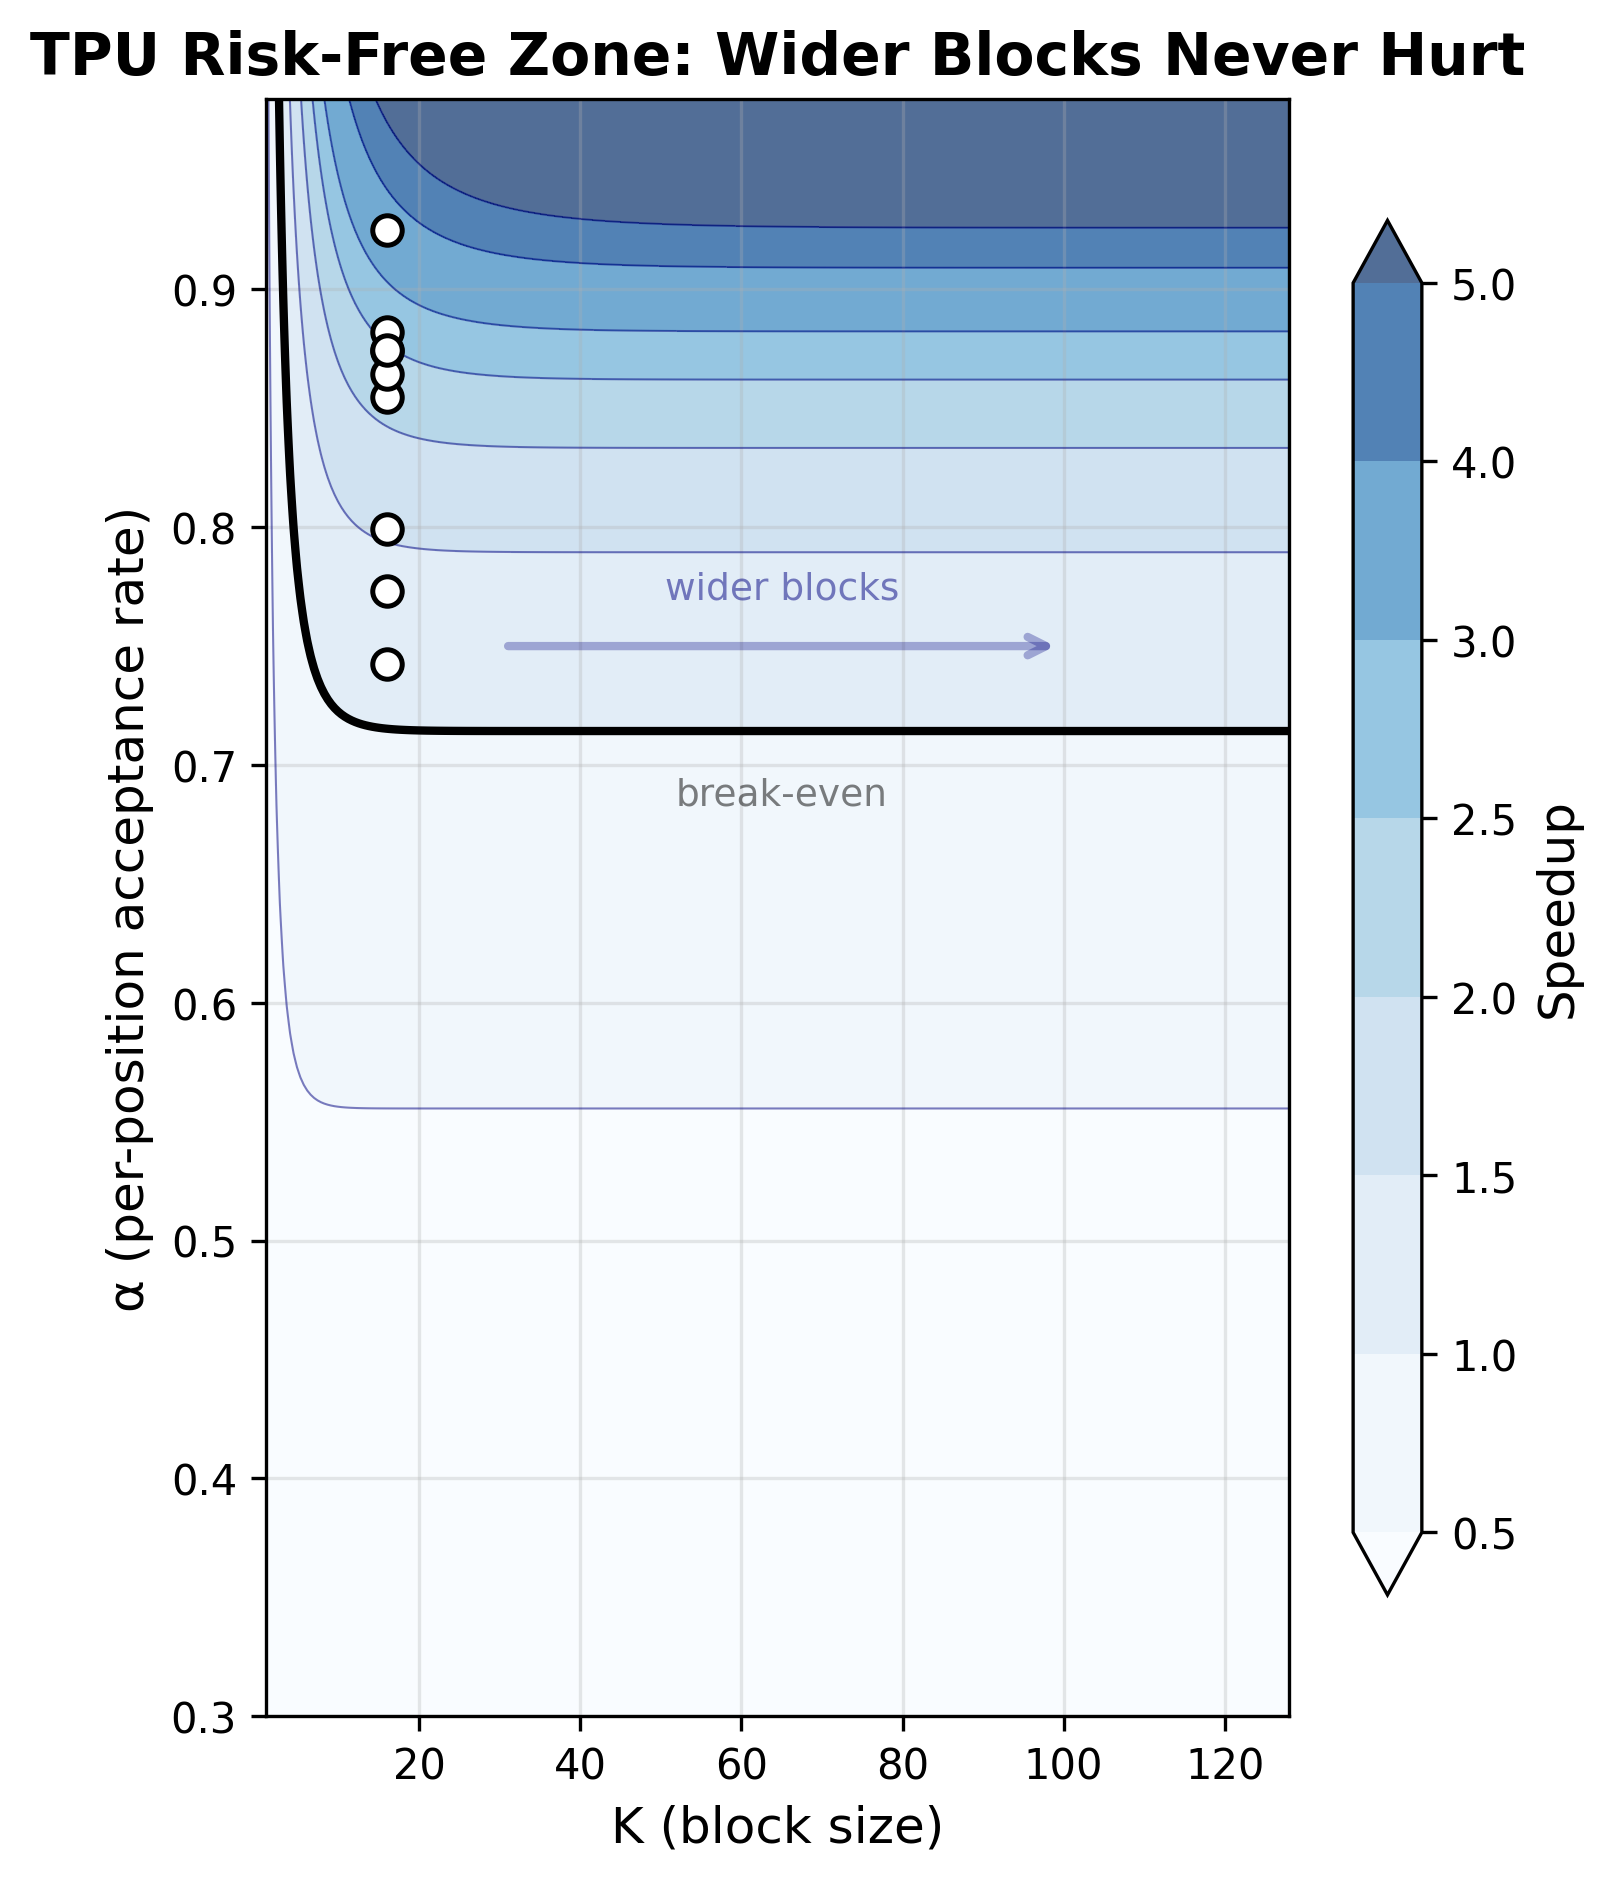
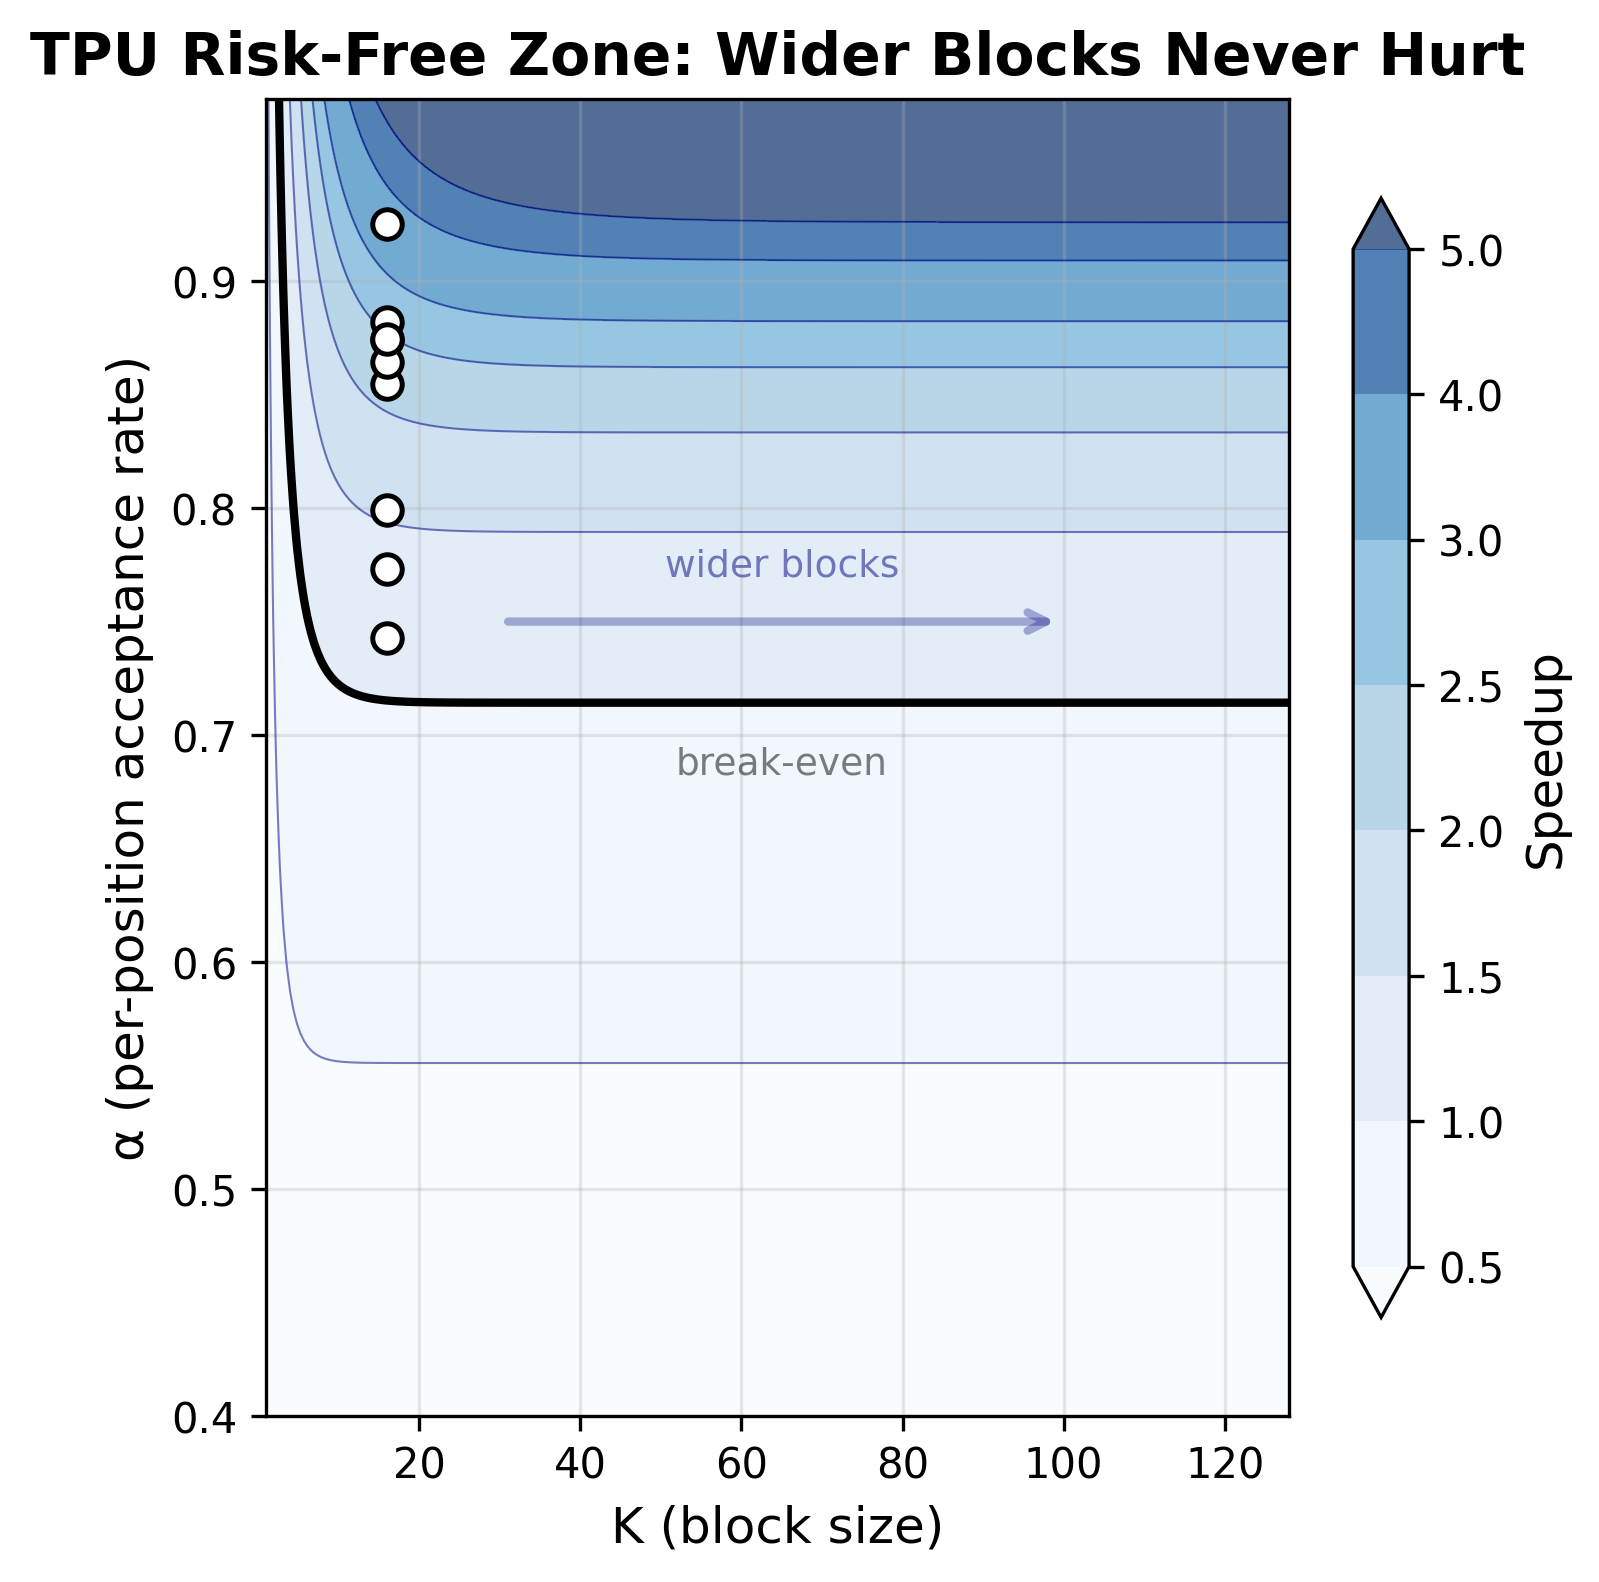
Minor Visualization Adjustment

Changed region(s): [[0.0, 0.0, 0.9806, 0.9912], [0.2452, 0.5885, 0.429, 0.6195]]

diff --git a/visualizations/scripts/generate_research.py b/visualizations/scripts/generate_research.py
@@ -567,10 +567,10 @@ def fig_acceptance_heatmap(output_dir, formats):
 
 def poster_risk_free_tpu_only(output_dir, formats):
     """TPU-only left panel of risk-free zone — narrow for wrap layout."""
-    fig, ax = plt.subplots(figsize=(5.5, 7))
+    fig, ax = plt.subplots(figsize=(5.5, 5.7))
 
     K_range = np.linspace(1, 128, 300)
-    alpha_range = np.linspace(0.3, 0.98, 300)
+    alpha_range = np.linspace(0.4, 0.98, 300)
     K_grid, A_grid = np.meshgrid(K_range, alpha_range)
 
     tau_grid = A_grid * (1 - A_grid**K_grid) / (1 - A_grid)
@@ -615,26 +615,42 @@ def poster_step_breakdown(output_dir, formats):
     total = sum(times_ms)
     colors_pie = [COLORS["verify"], COLORS["draft"], COLORS["overhead"]]
 
-    fig, (ax, ax_legend) = plt.subplots(1, 2, figsize=(7, 4.5),
-                                         gridspec_kw={"width_ratios": [3, 2], "wspace": 0.05})
+    fig, ax = plt.subplots(1, 1, figsize=(3.5, 3.2))
+    fig.subplots_adjust(top=0.99, bottom=0.01, left=0.01, right=0.99)
 
     wedges, texts, autotexts = ax.pie(
-        times_ms, labels=None, autopct=lambda p: f"{p:.0f}%",
+        times_ms, labels=None, autopct="",
         colors=colors_pie, startangle=90, pctdistance=0.75,
-        wedgeprops=dict(width=0.4, edgecolor="white", linewidth=2),
-        textprops=dict(fontsize=12, fontweight="bold"),
+        wedgeprops=dict(width=0.35, edgecolor="white", linewidth=2),
     )
 
-    ax.text(0, 0, f"~{total:.0f}ms\nper step", ha="center", va="center",
-            fontsize=12, fontweight="bold", color="#333")
-    ax.set_title("Step Time (TPU v4)", fontsize=12, fontweight="bold", pad=8)
+    # Annotate each wedge directly on the ring
+    import matplotlib.patheffects as pe
+    outline = [pe.withStroke(linewidth=3, foreground="black")]
+    labels_on_ring = ["Verify\n59%", "Draft\n12%", "Overhead\n29%"]
+    for i, (wedge, label) in enumerate(zip(wedges, labels_on_ring)):
+        ang = (wedge.theta2 + wedge.theta1) / 2
+        r = 0.82  # midpoint of ring
+        x = r * np.cos(np.radians(ang))
+        y = r * np.sin(np.radians(ang))
+        ax.text(x, y, label, ha="center", va="center",
+                fontsize=11, fontweight="bold", color="white",
+                path_effects=outline)
 
-    ax_legend.axis("off")
-    legend_labels = [f"{c}\n({t:.0f}ms)" for c, t in zip(components, times_ms)]
-    ax_legend.legend(wedges, legend_labels, loc="center", fontsize=10,
-                     frameon=False, handlelength=1.5, handleheight=1.5)
+    ax.text(0, 0.15, "Step Time (TPU v4)", ha="center", va="center",
+            fontsize=11, fontweight="bold", color="#555")
+    ax.text(0, -0.12, f"~{total:.0f}ms / step", ha="center", va="center",
+            fontsize=13, fontweight="bold", color="#333")
 
-    save_fig(fig, output_dir, "poster_step_breakdown", formats)
+    ax.set_xlim(-1.1, 1.1)
+    ax.set_ylim(-1.05, 1.0)
+
+    for fmt in formats:
+        path = os.path.join(output_dir, f"poster_step_breakdown.{fmt}")
+        dpi = 300 if fmt == "png" else 150
+        fig.savefig(path, dpi=dpi, bbox_inches="tight", pad_inches=0, facecolor="white")
+        print(f"  Saved {path}")
+    plt.close(fig)
 
 
 # ============================================================================
